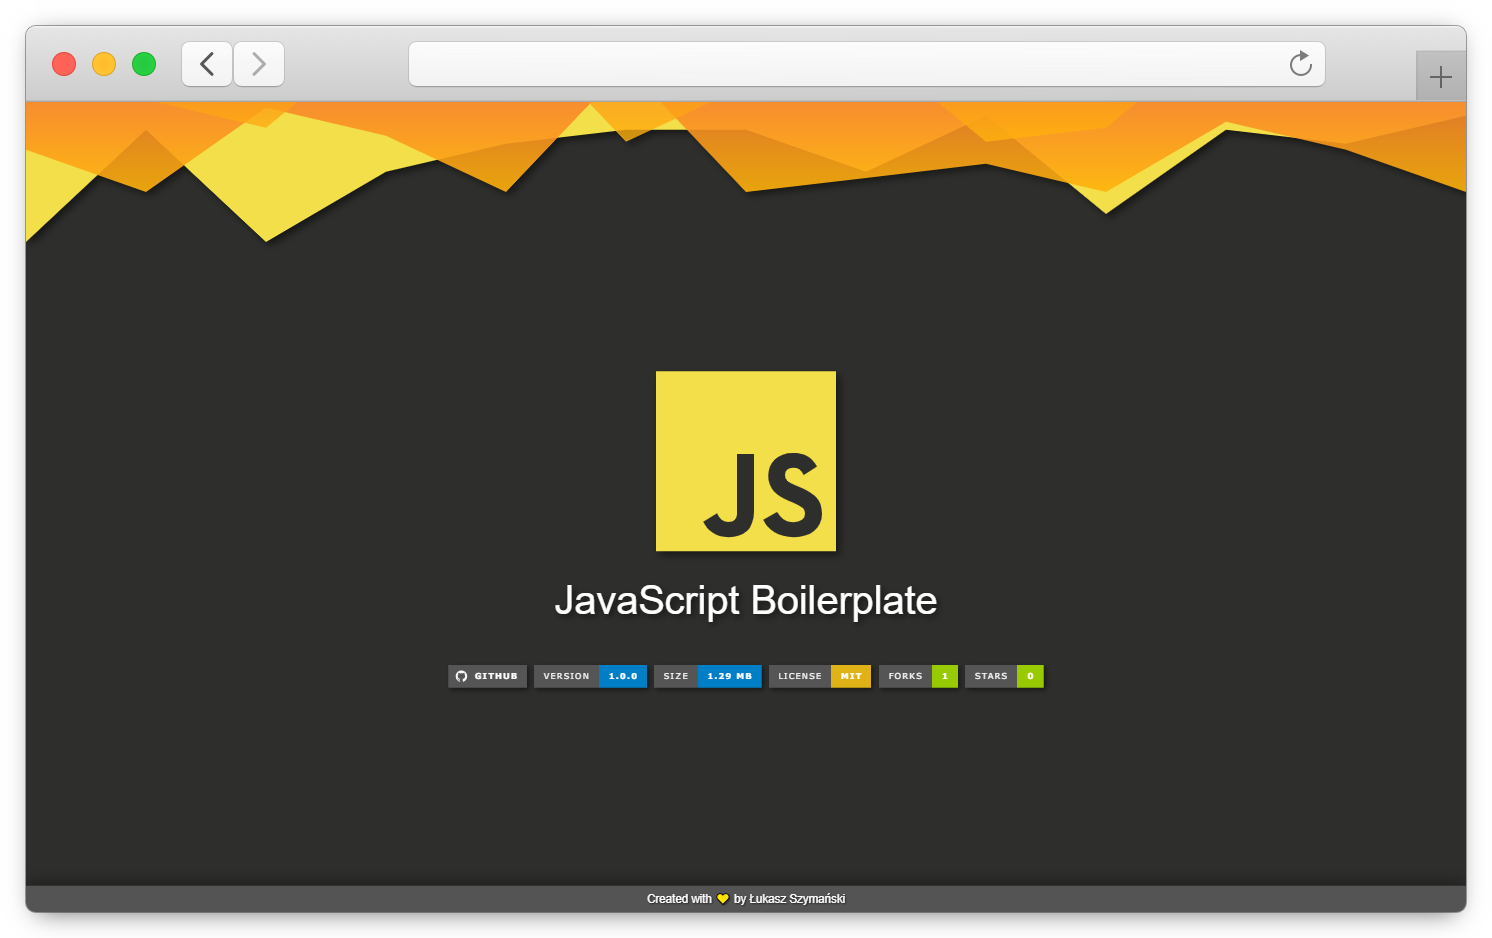
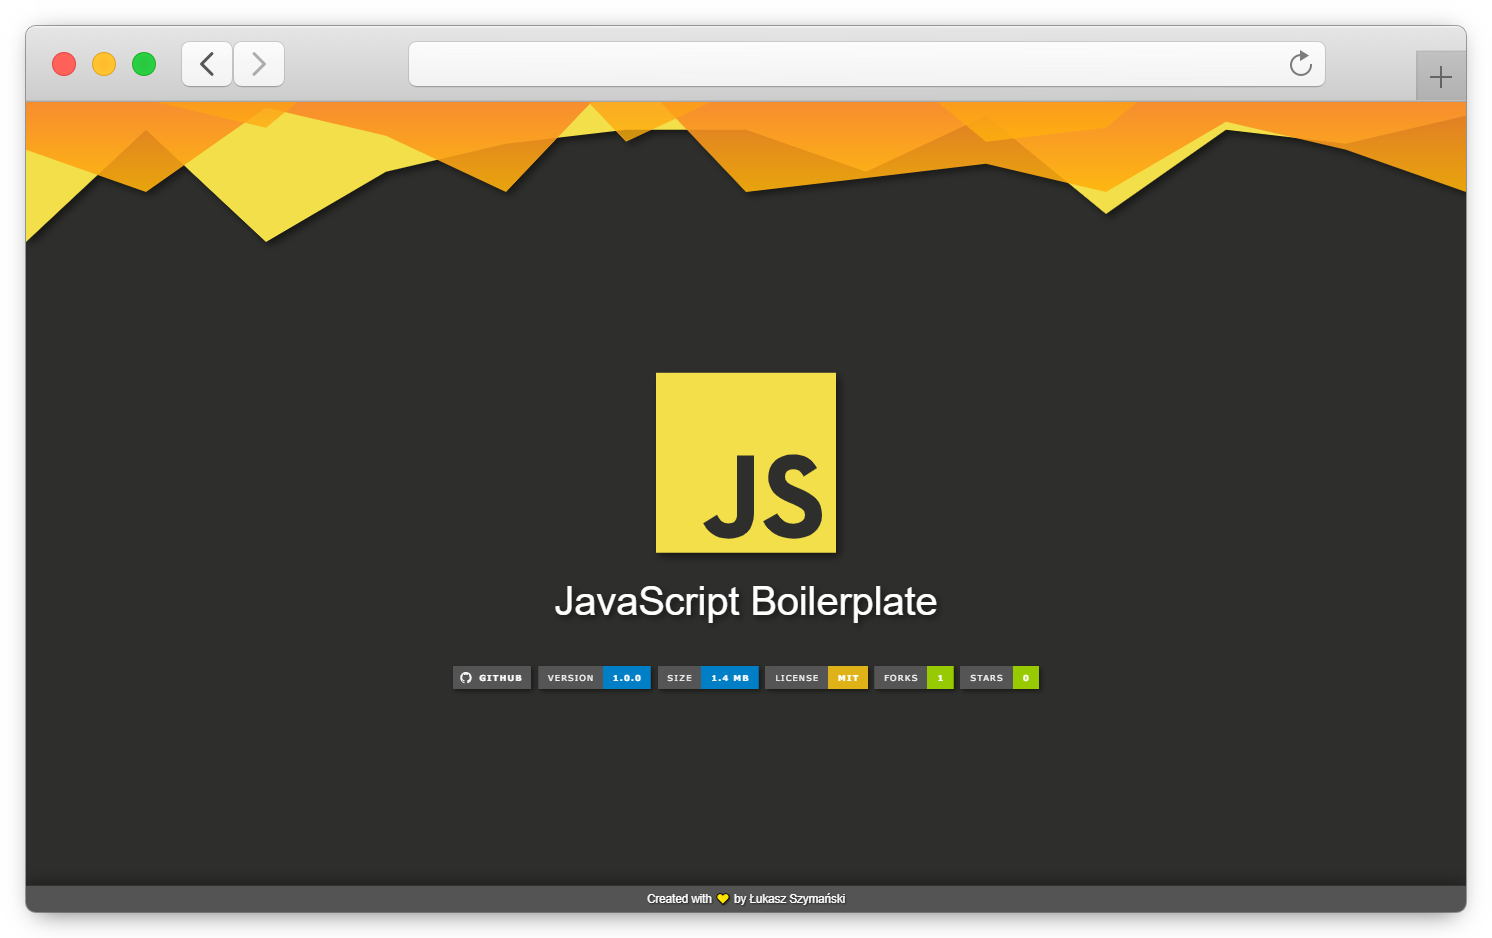
Update views.js and _home.scss files - fix badges

Changed region(s): [[0.2775, 0.7111, 0.7091, 0.742], [0.4008, 0.6183, 0.6166, 0.6493], [0.5241, 0.4947, 0.555, 0.5565]]

diff --git a/src/scripts/views.js b/src/scripts/views.js
@@ -18,7 +18,7 @@ const render = () => {
                     src="${logo}"
                 />
                 <h1 class="home-container__title">JavaScript Boilerplate</h1>
-                <div class="home-container__badges">
+                <div class="flexbox-row home-container__badges">
                     <a href="https://github.com/lszymanski7/boilerplate-js">
                         <img
                             alt="GitHub Badge"

diff --git a/src/assets/sass/pages/_home.scss b/src/assets/sass/pages/_home.scss
@@ -30,7 +30,8 @@
   }
 
   img {
-    padding: 0.2rem;
+    display: block;
+    padding: 0.2rem map-get($spaces, 'xxs');
     @include drop-shadow(3px, 3px, 3px, map-get($colors, 'shadow', 'black-50'));
   }
 }
